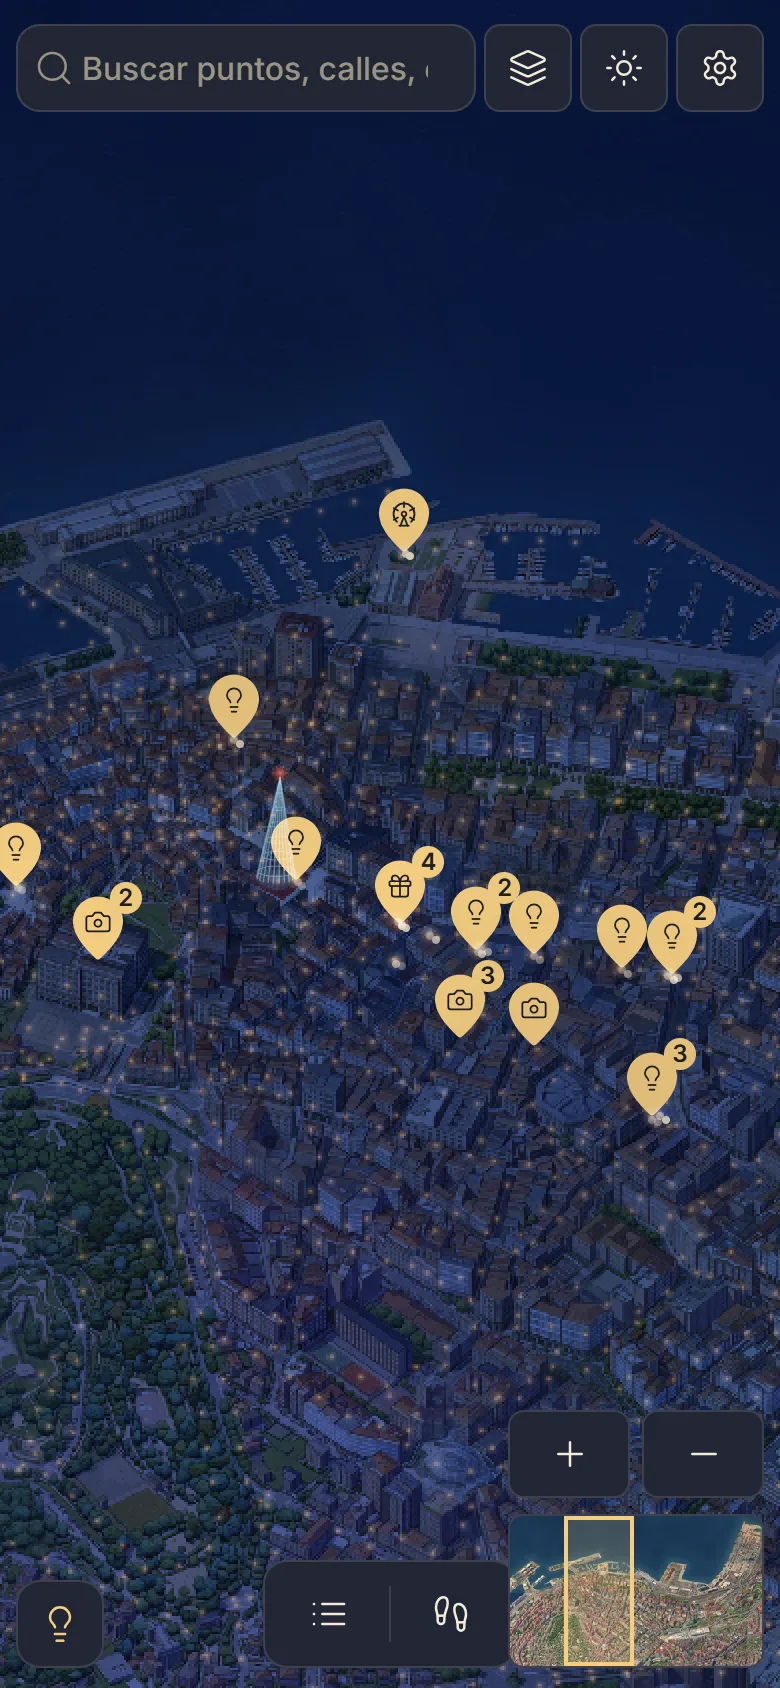
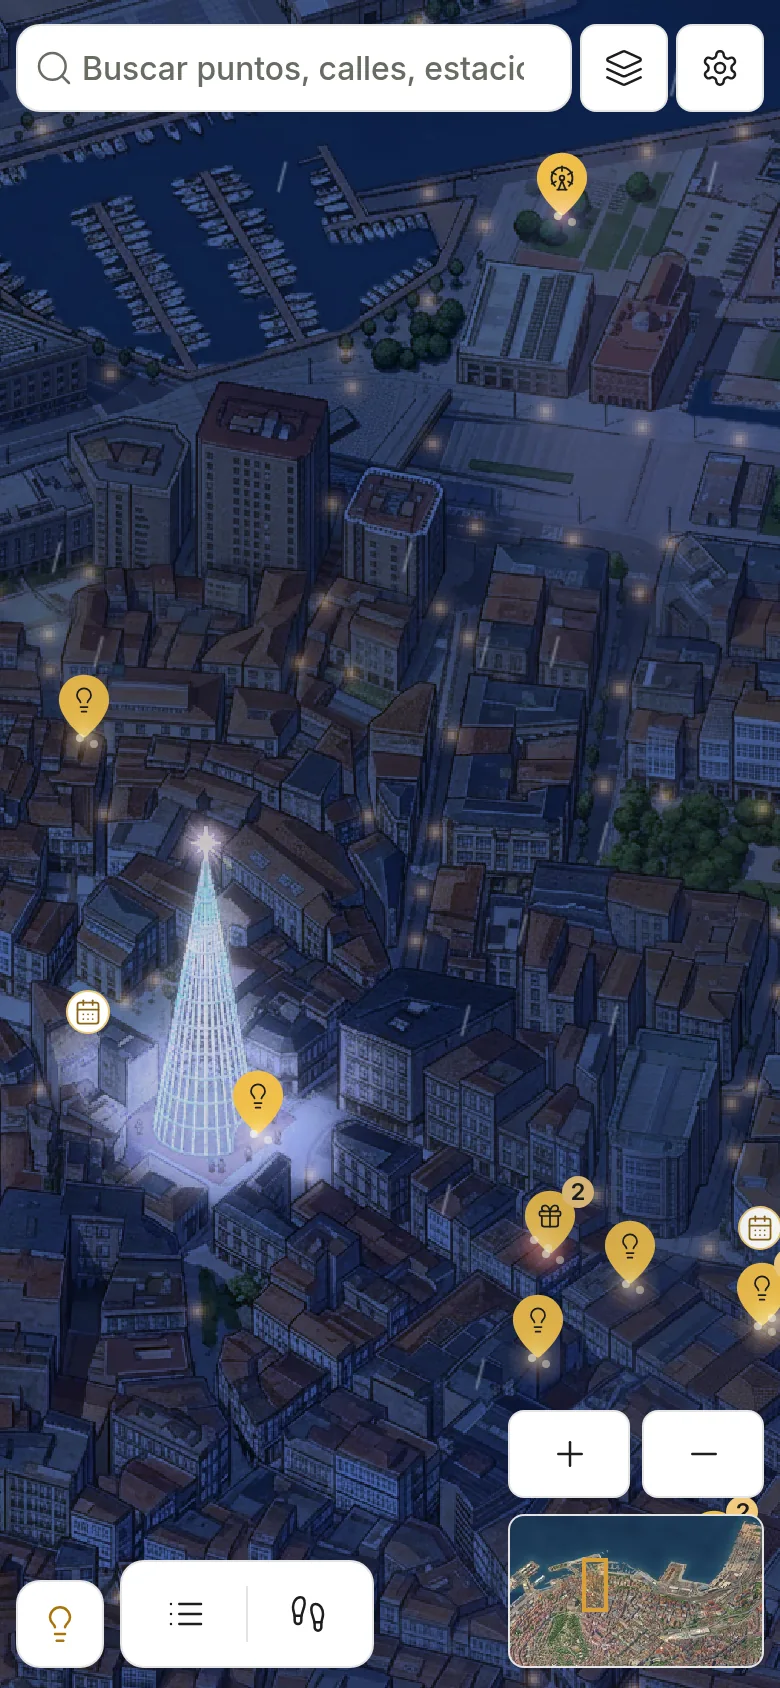
feat(landing): capturas de la app en modo claro y fuera los titulos en mayusculas de la ficha
- Recapturadas en claro (castellano): mapa, noche, agenda, movil del hero y paseo.
- La ficha ya no usa titulos en mayusculas con espaciado.

diff --git a/landing/src/index.css b/landing/src/index.css
@@ -176,7 +176,7 @@ h1, h2, h3, h4 { font-weight: 600; letter-spacing: -0.02em; line-height: 1.2; }
 .fm-photo img { display: block; width: 100%; height: auto; aspect-ratio: 16 / 9; object-fit: cover; }
 .fm-top { display: flex; align-items: flex-start; gap: 0.5em; }
 .fm-top > div { flex: 1; min-width: 0; }
-.fm-type { margin: 0; font-size: 3.4cqi; font-weight: 600; letter-spacing: 0.02em; text-transform: uppercase; color: var(--gold-ink); }
+.fm-type { margin: 0; font-size: 3.4cqi; font-weight: 600; color: var(--gold-ink); }
 .fm-title { margin: 0.35em 0 0; font-size: 7.4cqi; font-weight: 600; line-height: 1.1; letter-spacing: -0.03em; }
 .fm-close { display: grid; place-items: center; flex: none; width: 7.5cqi; height: 7.5cqi; border-radius: var(--r-ctl); background: var(--sunk); color: var(--fg-3); }
 .fm-state { display: flex; align-items: center; gap: 0.35em; margin: 0.9em 0 0; font-size: 4cqi; font-weight: 500; color: var(--fg-2); }
@@ -190,7 +190,7 @@ h1, h2, h3, h4 { font-weight: 600; letter-spacing: -0.02em; line-height: 1.2; }
 .fm-btn.is-sec { border: 1px solid var(--line-strong); color: var(--fg); }
 .fm-btn.is-pri { background: var(--gold); color: var(--on-gold); }
 .fm-story { margin-top: 1.2em; padding-top: 1em; border-top: 1px solid var(--line); }
-.fm-h { margin: 0; font-size: 3.4cqi; font-weight: 700; letter-spacing: 0.02em; text-transform: uppercase; color: var(--fg-3); }
+.fm-h { margin: 0; font-size: 3.4cqi; font-weight: 700; color: var(--fg-3); }
 .fm-p { margin: 0.55em 0 0; font-size: 3.6cqi; line-height: 1.45; color: var(--fg-2); }
 
 

diff --git a/landing/src/components/Walk.jsx b/landing/src/components/Walk.jsx
@@ -48,7 +48,7 @@ export default function Walk() {
           <Reveal className="walk-visual" delay={120}>
             <img className="walk-night" src={shotNoche} alt="El centro de Vigo de noche en el mapa, con las farolas y el Árbol de Porta do Sol encendidos" width="1200" height="900" loading="lazy" decoding="async" />
             <Phone className="phone-float">
-              <img src={shotPaseo} alt="La tarjeta del paseo en el móvil: parada 2 de 9, Papá Noel en la Farola, a 2 minutos andando" width="780" height="1688" loading="lazy" decoding="async" />
+              <img src={shotPaseo} alt="La tarjeta del paseo en el móvil: parada 4 de 10, Papa Noel con balancín, a 2 minutos andando" width="780" height="1688" loading="lazy" decoding="async" />
             </Phone>
           </Reveal>
         </div>
